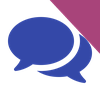
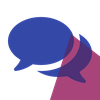
[FIX] afenda/tools: give website_forum an accent that reaches its glyph
Its wedge fell to 0.0% overlap at GLYPH_SCALE 0.84, so it rendered in two
colours in a three-colour family. shard-br puts it at 22.6%, on the 20%
target the V2 review sets.

diff --git a/afenda/tools/app_icons.py b/afenda/tools/app_icons.py
@@ -248,7 +248,8 @@ ACCENTS: dict[str, tuple[str, str, str]] = {
     "mass_mailing": (INDIGO, MULBERRY, "disc-br"),
     "mass_mailing_sms": (INDIGO, MULBERRY, "disc-bl"),
     "sms": (INDIGO, TEAL, "disc-br"),
-    "website_forum": (INDIGO, MULBERRY, "wedge-tr"),
+    "website_forum": (INDIGO, MULBERRY, "shard-br"),  # wedge-tr fell to 0.0%
+    # overlap at GLYPH_SCALE 0.84 - two colours in a three-colour family.
     # --- market ----------------------------------------------------------
     "crm": (MULBERRY, TEAL, "wedge-tr"),
     "website": (MULBERRY, TEAL, "disc-br"),
